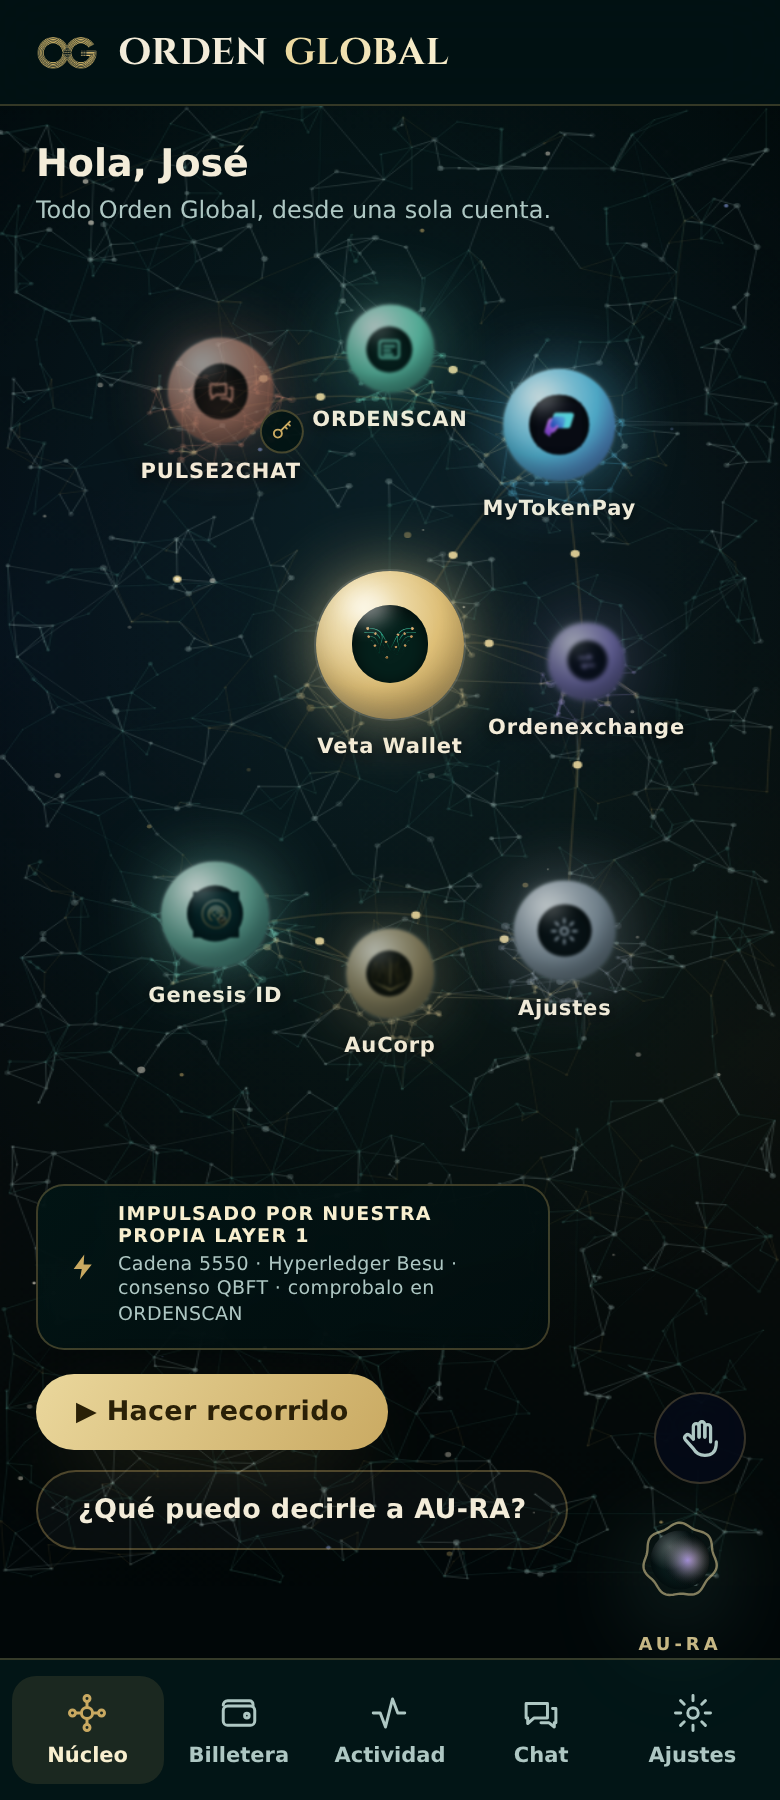
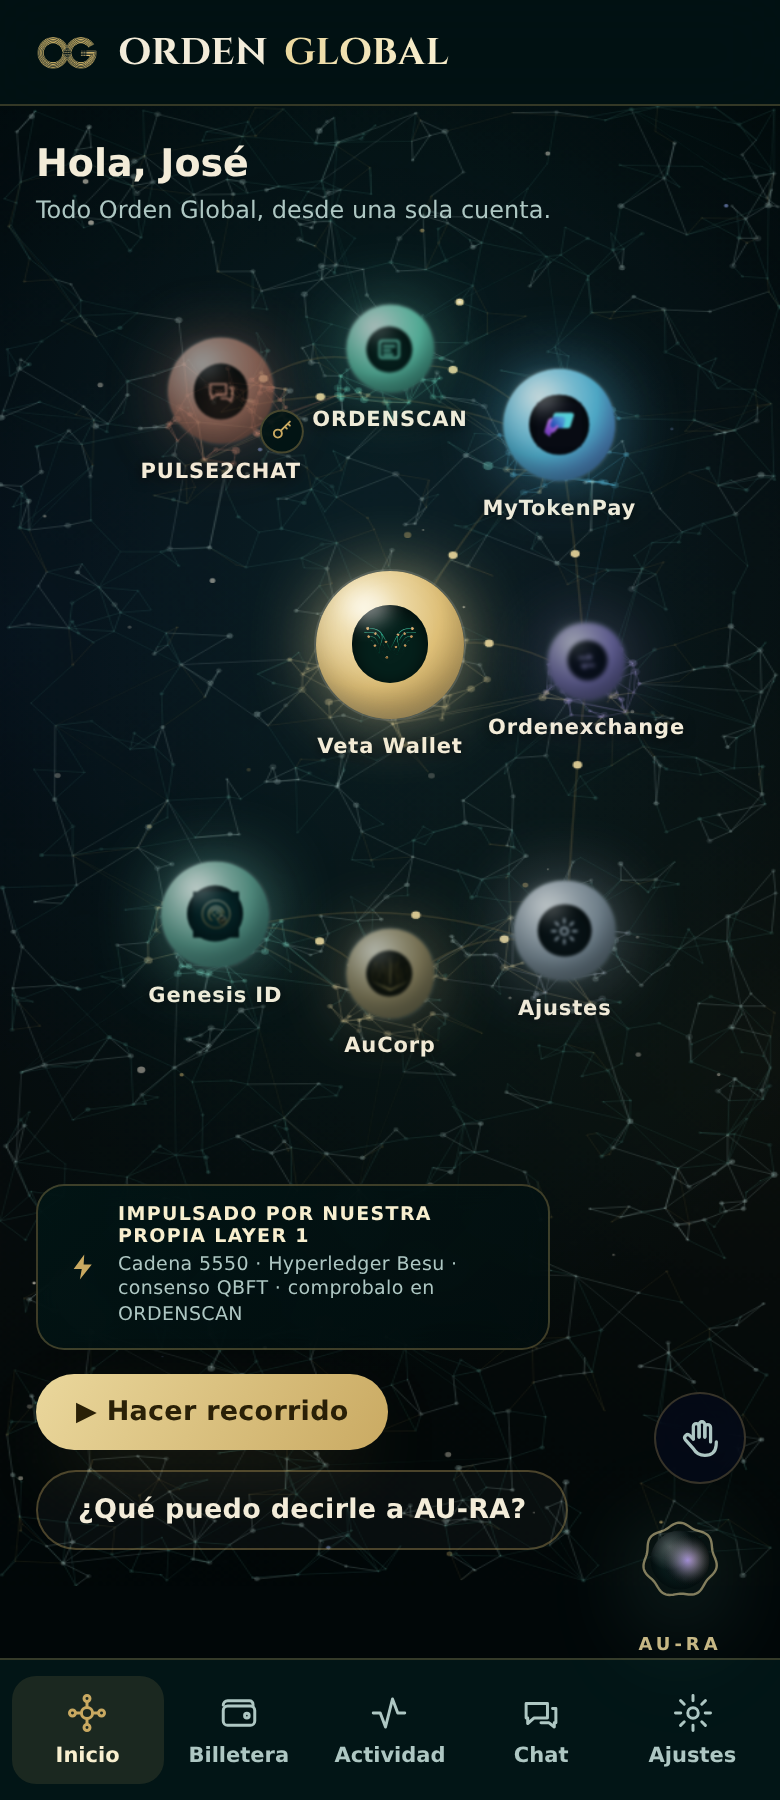
Galaxy OS: la mirada de AIR TOUCH, el viaje con firma y el Inicio
Del boceto de Galaxy OS se adapta lo que suma y se deja lo que no es
de la casa. AIR TOUCH aprende la MIRADA: apuntar un planeta del
Inicio o una pestaña lo agranda, la pastilla dice a dónde se va y un
anillo se llena en el cursor; sostener la mirada abre. Solo
navegación: mirar fijo un botón de dinero no mueve un centavo — el
pellizco sigue siendo el toque universal. La apertura de una app
tiene firma: el cielo se aparta del planeta con un destello de SU
color y el aire hace el zarpe; volver al Inicio baja el tono. La
pestaña del cerebro pasa a llamarse Inicio (Home), que es como lo
nombra la gente. Y el teléfono deja de trabarse en la puerta: menos
píxeles, menos estrellas, treinta cuadros y un desenfoque más
liviano donde el vidrio pesaba.

Claude-Session: https://claude.ai/code/session_01K37q5QjnAm7tkAy4TCCnU3

diff --git a/apps-web/veta-wallet/app.js b/apps-web/veta-wallet/app.js
@@ -1931,6 +1931,7 @@ const VETA = (() => {
     // Salir de «enviar» cancela la intencion de publicar comprobante: la marca
     // no puede quedar esperando dias a un envio que ya es otro.
     if (vistaActual === 'enviar' && cual !== 'enviar') avisarChat = null;
+    const veniaDe = vistaActual;
     vistaActual = cual;
     if (cual === 'token' && dato) tokenAbierto = dato;
     const encendida = PESTANAS.includes(cual) ? cual : DENTRO_DE[cual];
@@ -2005,7 +2006,11 @@ const VETA = (() => {
        la bienvenida se quedaba congelado a media frase. Cuando la bienvenida
        se va, ella misma enciende el del Nucleo. */
     if (!$('#aura-bienvenida').classList.contains('oculto')) return;
-    if (cual === 'nucleo') encenderCerebro(false);
+    if (cual === 'nucleo') {
+      // volver a Inicio baja el tono: el mismo aire del viaje, de regreso
+      if (veniaDe && veniaDe !== 'nucleo') { try { TONO.zarpe(false); } catch { /* nada */ } }
+      encenderCerebro(false);
+    }
     else { AURA.pararRed(); tourApagar(); }
     window.scrollTo(0, 0);
   }
@@ -4888,10 +4893,13 @@ const VETA = (() => {
     const el = document.querySelector(`.nu-mundo[data-mundo="${id}"]`);
     const caja = el?.closest('.cerebro');
     if (!el || !caja || matchMedia('(prefers-reduced-motion:reduce)').matches) return abrir();
-    /* El cielo acompaña: las estrellas se apartan del planeta elegido — el
-       ojo lee «viajamos hacia allá» aunque la constelación no se mueva. */
+    /* El cielo acompaña: las estrellas se apartan del planeta elegido, el
+       destello lleva SU color y el aire hace el zarpe — la apertura tiene
+       firma propia, no es un fundido genérico. */
     const r = el.getBoundingClientRect();
-    window.GALAXIA?.empujarHacia(r.left + r.width / 2, r.top + r.height / 2, 460);
+    const tinte = MUNDOS.find(x => x.id === id)?.halo || null;
+    window.GALAXIA?.empujarHacia(r.left + r.width / 2, r.top + r.height / 2, 460, tinte);
+    try { TONO.zarpe(true); } catch { /* sin audio se viaja igual */ }
     caja.classList.add('cer-yendo');
     el.classList.add('nu-yendo');
     setTimeout(abrir, 420);
@@ -6962,12 +6970,63 @@ const VETA = (() => {
    * puede cumplirse (hay cámara y WebAssembly): un botón que no puede hacer
    * nada enseña a no tocar botones. */
   let atAgarre = null;    // { el, sx, x0, y0, movio, desde }
+  /* La MIRADA: apuntar un rato abre, con un anillo que se va llenando. SOLO
+     sobre los planetas del Inicio y las pestañas de navegación — nunca sobre
+     un botón de dinero: mirar fijo «Enviar» no puede mover un centavo. El
+     pellizco sigue siendo el toque universal. */
+  const AT_MIRA_MS = 900;
+  const AT_MIRABLES = '.nu-mundo, .nav';
+  let atMira = null;      // { el, desde, hecho }
+
+  function atMirarLimpiar() {
+    atMira?.el?.classList.remove('at-mira');
+    atMira = null;
+    const aro = $('#at-cursor i');
+    if (aro) aro.style.background = '';
+    $('#at-nombre')?.classList.add('oculto');
+  }
+
+  function atMirar(objetivo, p) {
+    if (objetivo !== atMira?.el) {
+      atMirarLimpiar();
+      if (!objetivo) return;
+      objetivo.classList.add('at-mira');
+      atMira = { el: objetivo, desde: performance.now(), hecho: false };
+      const rotulo = objetivo.querySelector('.nu-nombre')?.textContent
+        || objetivo.getAttribute('aria-label') || objetivo.textContent.trim();
+      const past = $('#at-nombre');
+      if (past && rotulo) {
+        past.innerHTML = `<b>${esc(rotulo)}</b><small>${t('at.manten')}</small>`;
+        past.classList.remove('oculto');
+      }
+      return;
+    }
+    if (!atMira || atMira.hecho) return;
+    const pr = (performance.now() - atMira.desde) / AT_MIRA_MS;
+    const aro = $('#at-cursor i');
+    if (aro) aro.style.background =
+      `conic-gradient(rgba(234,215,156,.95) ${Math.min(360, pr * 360)}deg, rgba(201,169,97,.14) 0deg)`;
+    if (pr >= 1) {
+      atMira.hecho = true;
+      const el = atMira.el;
+      $('#at-cursor')?.classList.add('toco');
+      setTimeout(() => $('#at-cursor')?.classList.remove('toco'), 320);
+      try {
+        el.dispatchEvent(new MouseEvent('click', {
+          bubbles: true, cancelable: true, composed: true, clientX: p.x, clientY: p.y,
+        }));
+      } catch { /* nada */ }
+      atMirarLimpiar();
+    }
+  }
 
   function airToca() {
     if (window.AIRTOUCH?.activo()) {
       AIRTOUCH.apagar();
       $('#at-boton')?.classList.remove('encendido');
       $('#at-cursor')?.classList.add('oculto');
+      $('#at-cinta')?.classList.add('oculto');
+      atMirarLimpiar();
       atAgarre = null;
       return avisar(t('at.apagado'));
     }
@@ -6982,6 +7041,12 @@ const VETA = (() => {
     try {
       await AIRTOUCH.encender({ alCambiar: atPunto });
       $('#at-boton')?.classList.add('encendido');
+      const cinta = $('#at-cinta');
+      if (cinta) {
+        cinta.textContent = t('at.cinta');
+        cinta.classList.remove('oculto');
+        setTimeout(() => cinta.classList.add('oculto'), 6000);
+      }
       avisar(t('at.listo'));
       tele('accion', 'airtouch.encendido');
     } catch (e) {
@@ -7027,12 +7092,15 @@ const VETA = (() => {
     if (!cur) return;
     if (!p.presente) {
       cur.classList.add('oculto');
+      atMirarLimpiar();
       if (atAgarre) atSoltar(p);
       return;
     }
     cur.classList.remove('oculto');
     cur.style.transform = `translate(${p.x}px, ${p.y}px)`;
     cur.classList.toggle('pellizco', !!p.pellizco);
+    if (!p.pellizco && !atAgarre) atMirar(atBajo(p.x, p.y)?.closest(AT_MIRABLES) || null, p);
+    else atMirarLimpiar();
     if (p.pellizco && !atAgarre) {
       const el = atBajo(p.x, p.y);
       atAgarre = { el, sx: atRodante(el), x0: p.x, y0: p.y, xa: p.x, ya: p.y,

diff --git a/apps-web/veta-wallet/galaxia.js b/apps-web/veta-wallet/galaxia.js
@@ -26,6 +26,11 @@ const GALAXIA = (() => {
   'use strict';
 
   const QUIETO = matchMedia('(prefers-reduced-motion: reduce)');
+  /* El teléfono se trata distinto A PROPÓSITO: menos píxeles (dpr 1.25),
+     menos estrellas y 30 cuadros por segundo. En una GPU de bolsillo el cielo
+     a 60fps con blur encima es exactamente el «se traba» del login; a 30fps
+     un cielo que deriva despacio se ve igual y cuesta la mitad. */
+  const BOLSILLO = matchMedia('(pointer: coarse)').matches;
 
   let lienzo = null, ctx = null;
   let ancho = 0, alto = 0, dpr = 1;
@@ -66,7 +71,7 @@ const GALAXIA = (() => {
 
   function sembrar() {
     const az = alAzar(5550);   // la cadena de la casa, de semilla
-    const cuantas = Math.min(420, Math.round((ancho * alto) / 6200));
+    const cuantas = Math.min(420, Math.round((ancho * alto) / (BOLSILLO ? 11000 : 6200)));
     estrellas = [];
     for (let i = 0; i < cuantas; i++) {
       const capa = i % 3;                       // 0 lejos · 1 media · 2 cerca
@@ -246,13 +251,28 @@ const GALAXIA = (() => {
        instante — el cielo entero dice «vamos hacia allá» sin mover la
        constelación, que es del DOM y tiene su propio gesto. */
     if (empujon) {
-      const p = Math.min(1, (ahora - empujon.desde) / empujon.dura);
+      /* Doble clampa: el reloj del RAF marca el INICIO del cuadro y puede
+         venir por detrás del performance.now() que fechó el empujón — un p
+         negativo pintaba un color con alfa «-9» y tumbaba el canvas. */
+      const p = Math.min(1, Math.max(0, (ahora - empujon.desde) / empujon.dura));
       const fuerza = Math.sin(p * Math.PI) * 3.2;
       for (const e of estrellas) {
         const dx = e.x - empujon.x, dy = e.y - empujon.y;
         const d = Math.hypot(dx, dy) || 1;
         e.x += (dx / d) * fuerza * dt;
         e.y += (dy / d) * fuerza * dt;
+      }
+      /* Y el destello del planeta elegido: un aliento de SU color que crece
+         y se apaga con el viaje — la apertura tiene firma, no es un fundido
+         genérico. */
+      if (empujon.tinte) {
+        const alfa = Math.sin(p * Math.PI) * 0.34;
+        const radio = 90 + p * Math.max(ancho, alto) * 0.5;
+        const g3 = ctx.createRadialGradient(empujon.x, empujon.y, 0, empujon.x, empujon.y, radio);
+        g3.addColorStop(0, empujon.tinte + Math.round(alfa * 255).toString(16).padStart(2, '0'));
+        g3.addColorStop(1, empujon.tinte + '00');
+        ctx.fillStyle = g3;
+        ctx.fillRect(0, 0, ancho, alto);
       }
       if (p >= 1) empujon = null;
     }
@@ -286,6 +306,11 @@ const GALAXIA = (() => {
       rafId = requestAnimationFrame(bucle);
       return;
     }
+    // en el teléfono, un cuadro sí y uno no; el salto corre entero siempre
+    if (BOLSILLO && !salto && ahora - previo < 30) {
+      rafId = requestAnimationFrame(bucle);
+      return;
+    }
     cuadro(ahora);
     rafId = requestAnimationFrame(bucle);
   }
@@ -298,7 +323,7 @@ const GALAXIA = (() => {
        quieto a mitad del túnel lo colapsa a la vista. El resize queda
        anotado y se atiende al aterrizar. */
     if (salto) { medirLuego = true; return; }
-    dpr = Math.min(2, window.devicePixelRatio || 1);
+    dpr = Math.min(BOLSILLO ? 1.25 : 2, window.devicePixelRatio || 1);
     ancho = lienzo.clientWidth;
     alto = lienzo.clientHeight;
     lienzo.width = Math.round(ancho * dpr);
@@ -385,9 +410,11 @@ const GALAXIA = (() => {
 
   /** El cielo acompaña el viaje hacia un planeta: las estrellas se apartan
       del punto (px,py en píxeles de pantalla) durante `dura` ms. */
-  function empujarHacia(px, py, dura = 520) {
+  function empujarHacia(px, py, dura = 520, tinte = null) {
     if (!ctx || QUIETO.matches) return;
-    empujon = { x: px, y: py, desde: performance.now(), dura };
+    // el tinte llega como #rrggbb; cualquier otra forma se ignora sin drama
+    if (tinte && !/^#[0-9a-fA-F]{6}$/.test(tinte)) tinte = null;
+    empujon = { x: px, y: py, desde: performance.now(), dura, tinte };
   }
 
   return { montar, apagar, saltar, viva, empujarHacia };

diff --git a/apps-web/veta-wallet/index.html b/apps-web/veta-wallet/index.html
@@ -168,7 +168,31 @@ body:has(#app:not(.oculto)) .veta-svg{display:none}
 .at-paso p{font-size:14px;color:var(--crema);line-height:1.5}
 .at-privado{margin-top:16px;font-size:12.5px;color:var(--humo);line-height:1.55}
 .at-botones{display:flex;gap:10px;margin-top:18px}
-@media (prefers-reduced-motion:reduce){#at-cursor.toco i{animation:none}}
+/* la mirada: el planeta apuntado crece, la pastilla dice a dónde se va */
+.nu-mundo.at-mira{scale:1.1;transition:scale .28s ease}
+.nav.at-mira{outline:2px solid rgba(234,215,156,.6);outline-offset:2px}
+#at-nombre{position:fixed;bottom:104px;left:50%;transform:translateX(-50%);z-index:205;
+  display:flex;align-items:baseline;gap:10px;padding:10px 22px;border-radius:100px;
+  background:rgba(4,10,26,.78);backdrop-filter:blur(10px);border:1px solid var(--linea2);
+  pointer-events:none;animation:fadeArriba .25s ease}
+#at-nombre b{font:700 15px/1 var(--serif);color:var(--crema);letter-spacing:.05em}
+#at-nombre small{font:500 11px/1 var(--mono);color:var(--humo);letter-spacing:.1em;text-transform:uppercase}
+#at-cinta{position:fixed;bottom:64px;left:50%;transform:translateX(-50%);z-index:205;
+  padding:9px 18px;border-radius:100px;background:rgba(4,10,26,.66);backdrop-filter:blur(8px);
+  border:1px solid var(--linea2);font:500 11.5px/1.4 var(--mono);color:var(--bruma);
+  letter-spacing:.04em;pointer-events:none;white-space:nowrap;max-width:94vw;overflow:hidden;
+  text-overflow:ellipsis;animation:fadeArriba .3s ease}
+@keyframes fadeArriba{from{opacity:0;transform:translate(-50%,10px)}to{opacity:1;transform:translate(-50%,0)}}
+/* el vidrio del login pesa menos en el teléfono: el desenfoque grande era
+   parte del «se traba» */
+@media (max-width:900px){
+  #acceso .vidrio,#reclave .vidrio{backdrop-filter:blur(8px)}
+}
+@media (prefers-reduced-motion:reduce){
+  #at-cursor.toco i{animation:none}
+  #at-nombre,#at-cinta{animation:none}
+  .nu-mundo.at-mira{transition:none}
+}
 #app:not(.oculto) ~ #galaxia,
 body:has(#app:not(.oculto)) #galaxia{display:none}
 
@@ -3595,6 +3619,8 @@ body.en-ventana .lienzo::before{
   </svg>
 </button>
 <div id="at-cursor" class="oculto" aria-hidden="true"><i></i></div>
+<div id="at-nombre" class="oculto" aria-hidden="true"></div>
+<div id="at-cinta" class="oculto" aria-hidden="true"></div>
 <div id="at-tuto" class="oculto" role="dialog" aria-modal="true" aria-label="AIR TOUCH">
   <div class="at-hoja vidrio">
     <h3>AIR TOUCH</h3>

diff --git a/apps-web/veta-wallet/i18n.js b/apps-web/veta-wallet/i18n.js
@@ -54,6 +54,8 @@ es: {
   'at.sinCamara': 'No encontramos una cámara en este aparato.',
   'at.sinModelo': 'No se pudo cargar el motor de la mano. Probá otra vez.',
   'at.sinSoporte': 'Este navegador no puede con AIR TOUCH.',
+  'at.manten': 'sostené para abrir',
+  'at.cinta': 'Apuntá y sostené: abrís · Pellizcá: tocás · Pellizcá y mové: desplazás',
   'acc.agRol': 'La inteligencia de la casa',
   'acc.voz1': 'Bienvenidos a Orden Global.',
   'acc.voz2': 'Soy AU-RA. Todo el ecosistema entra por esta puerta: tu oro, tu gente, tu identidad.',
@@ -426,7 +428,7 @@ es: {
   'aj.mtp': 'MyTokenPay', 'aj.mtpP': 'Pagá en comercios con tu saldo',
   'aj.bien': 'La bienvenida', 'aj.bienP': 'Qué es Orden Global y en qué cadena corre',
   // PULSE2CHAT
-  'nav.chat': 'Chat', 'nav.nucleo': 'Núcleo',
+  'nav.chat': 'Chat', 'nav.nucleo': 'Inicio',
   // El Núcleo: la portada del ecosistema
   'nu.t': 'Tu Núcleo', 'nu.hola': 'Hola',
   'nu.sub': 'Todo Orden Global, desde una sola cuenta.',
@@ -966,6 +968,8 @@ en: {
   'at.sinCamara': 'We could not find a camera on this device.',
   'at.sinModelo': 'The hand engine could not load. Please try again.',
   'at.sinSoporte': 'This browser cannot run AIR TOUCH.',
+  'at.manten': 'hold to open',
+  'at.cinta': 'Point and hold: open · Pinch: tap · Pinch and move: scroll',
   'acc.agRol': 'The intelligence of the house',
   'acc.voz1': 'Welcome to Orden Global.',
   'acc.voz2': 'I am AU-RA. The whole ecosystem enters through this door: your gold, your people, your identity.',
@@ -1299,7 +1303,7 @@ en: {
   'aj.deposito': 'Deposit', 'aj.depositoP': 'Receive from another wallet',
   'aj.mtp': 'MyTokenPay', 'aj.mtpP': 'Pay at shops with your balance',
   'aj.bien': 'The welcome', 'aj.bienP': 'What Orden Global is and which chain it runs on',
-  'nav.chat': 'Chat', 'nav.nucleo': 'Nucleus',
+  'nav.chat': 'Chat', 'nav.nucleo': 'Home',
   'nu.t': 'Your Nucleus', 'nu.hola': 'Hello',
   'nu.sub': 'All of Orden Global, from a single account.',
   'nu.wallet': 'Veta Wallet', 'nu.chat': 'PULSE2CHAT', 'nu.pay': 'MyTokenPay',

diff --git a/apps-web/veta-wallet/tono.js b/apps-web/veta-wallet/tono.js
@@ -126,6 +126,37 @@ const TONO = (() => {
     else { pitido(400, 0.13, t, 0.14); pitido(300, 0.18, t + 0.14, 0.14); }
   }
 
+  /**
+   * El zarpe: un barrido de aire, cortito y grave, para los viajes de la
+   * galaxia — abrir un planeta (sube) y volver a Inicio (baja). Es ruido
+   * blanco pasado por un filtro que barre la frecuencia, la receta clásica
+   * del «whoosh», a un volumen que acompaña sin protagonizar. Siempre corre
+   * detrás de un gesto, así que el navegador lo deja sonar.
+   */
+  function zarpe(subiendo = true) {
+    const c = contexto();
+    if (!c) return;
+    const t = c.currentTime;
+    const dura = 0.55;
+    const n = Math.floor(c.sampleRate * dura);
+    const buf = c.createBuffer(1, n, c.sampleRate);
+    const d = buf.getChannelData(0);
+    for (let i = 0; i < n; i++) d[i] = (Math.random() * 2 - 1) * (1 - i / n);
+    const src = c.createBufferSource();
+    src.buffer = buf;
+    const filtro = c.createBiquadFilter();
+    filtro.type = 'bandpass';
+    filtro.Q.value = 1.1;
+    filtro.frequency.setValueAtTime(subiendo ? 220 : 1400, t);
+    filtro.frequency.exponentialRampToValueAtTime(subiendo ? 1400 : 200, t + dura * 0.85);
+    const vol = c.createGain();
+    vol.gain.setValueAtTime(0.0001, t);
+    vol.gain.exponentialRampToValueAtTime(0.09, t + 0.06);
+    vol.gain.exponentialRampToValueAtTime(0.0001, t + dura);
+    src.connect(filtro).connect(vol).connect(c.destination);
+    src.start(t);
+  }
+
   /* Se despierta el audio con el primer toque de la persona en la página.
      Sin esto, el navegador bloquea el primer timbre y quien recibe una
      llamada no oye nada — el caso que mas importa. */
@@ -140,7 +171,7 @@ const TONO = (() => {
     }
   }
 
-  return { sonar, parar, golpe, despertar, sonando: () => sonando };
+  return { sonar, parar, golpe, zarpe, despertar, sonando: () => sonando };
 })();
 
 if (typeof window !== 'undefined') window.TONO = TONO;
